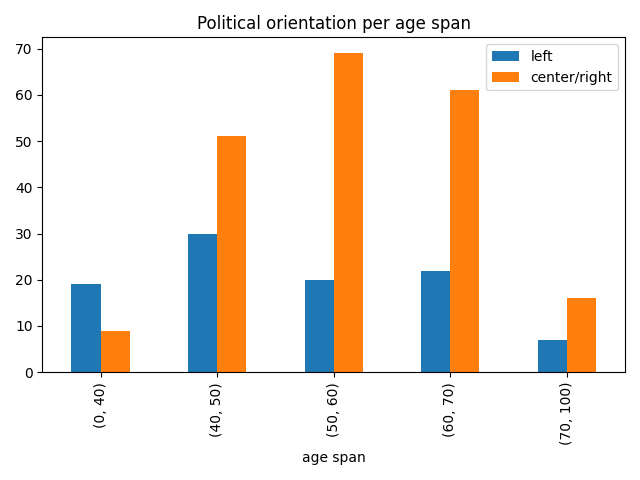
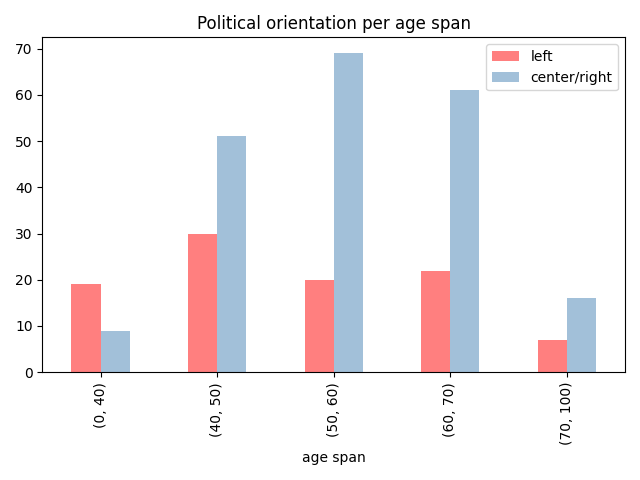
colors

diff --git a/05_categorize_ages/analyze_age_spans.py b/05_categorize_ages/analyze_age_spans.py
@@ -28,8 +28,8 @@ for cat, group in df.groupby("age_cat"):
         }
     )
 dfr = pd.DataFrame(rows)
-dfr.set_index("age span").plot(kind="bar")
-plt.title('Political orientation per age span')
+dfr.set_index("age span").plot(kind="bar", color=["red", "steelblue"], alpha=0.5)
+plt.title("Political orientation per age span")
 plt.tight_layout()
 plt.savefig("../charts/how_meaningful_is_age/position_per_age_span.png")
 plt.clf()
@@ -46,4 +46,16 @@ df.groupby("position")["Age"].hist(legend=True, alpha=0.5)
 plt.title("Age distribution per political orientation")
 plt.tight_layout()
 plt.savefig("../charts/how_meaningful_is_age/position_age_hist.png")
+plt.clf()
+
+df.groupby("position")["gender"].hist(legend=True, alpha=0.5)
+plt.title("Gender distribution per political orientation")
+plt.tight_layout()
+plt.savefig("../charts/how_meaningful_is_age/position_gender_hist.png")
+plt.clf()
+
+df.groupby("party")["gender"].hist(legend=True, alpha=0.5)
+plt.title("Gender distribution per political party")
+plt.tight_layout()
+plt.savefig("../charts/how_meaningful_is_age/party_gender_hist.png")
 plt.clf()
